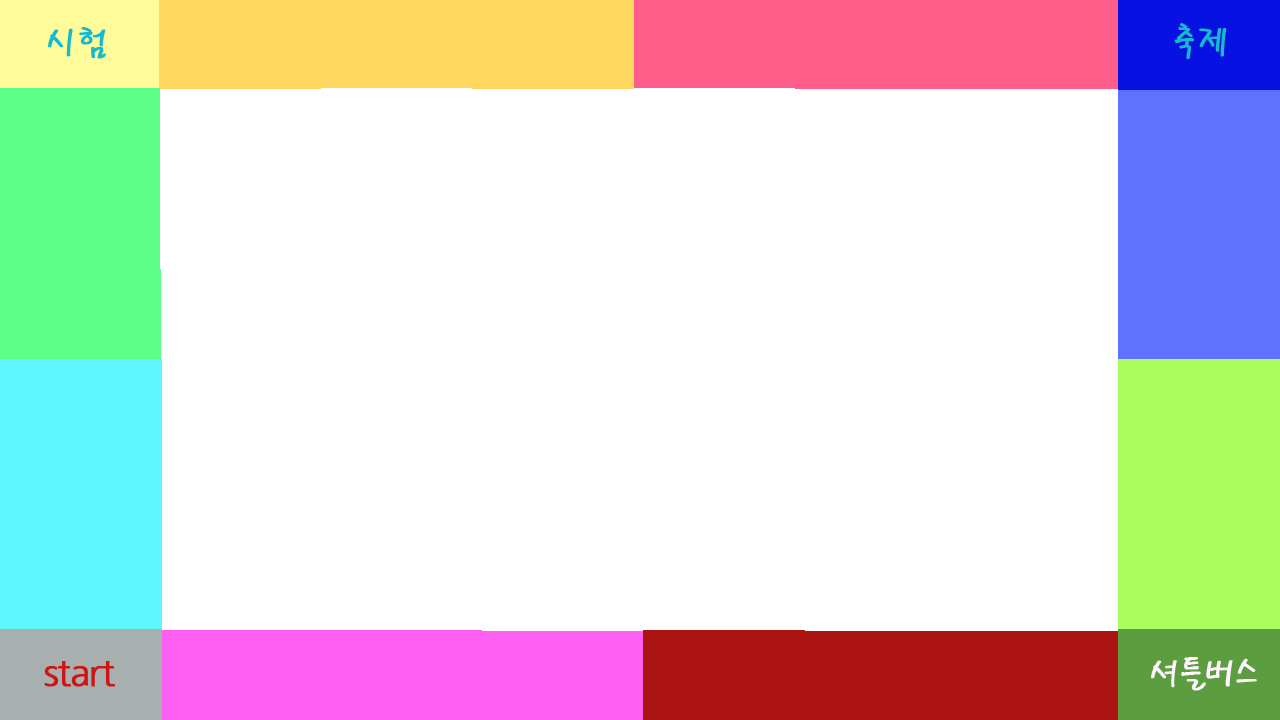
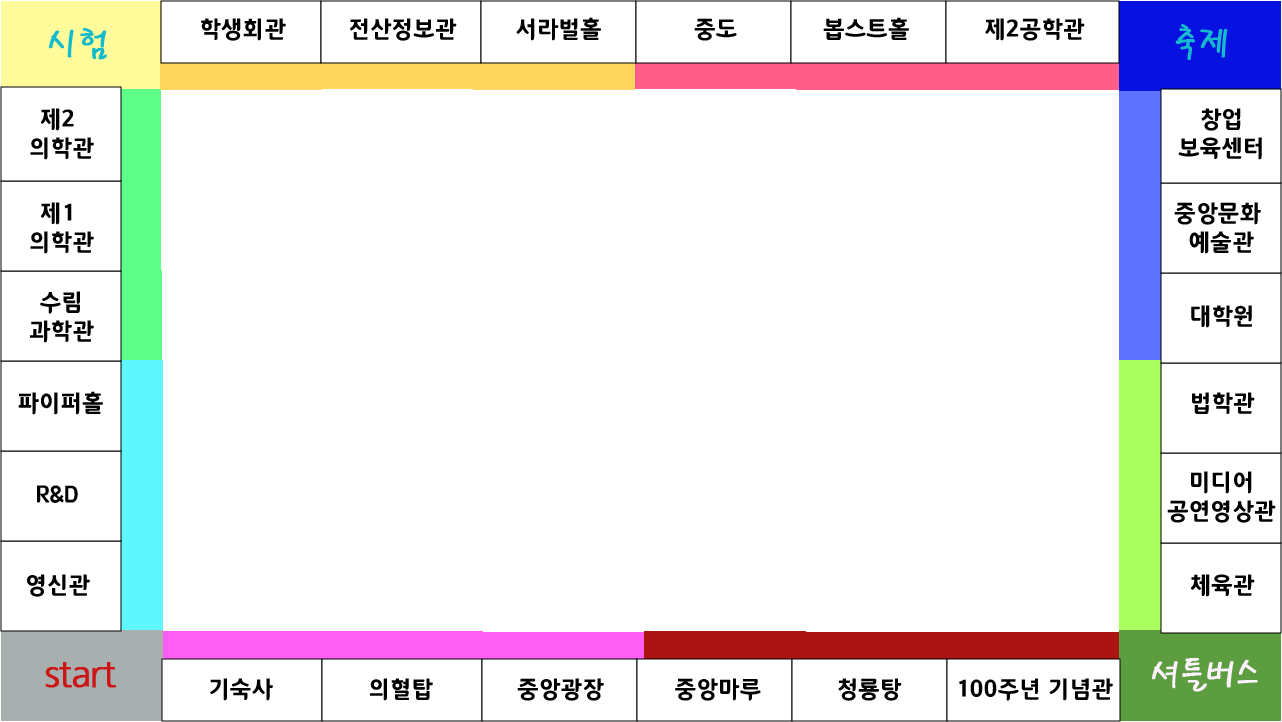
Modified all [Mod]

diff --git a/_20Marble.py b/_20Marble.py
@@ -17,15 +17,115 @@ explainbtn=Object("image/")
 explain=Object("image/")
 explain.hide()
 
+
+p1=Object("image/p1.png")
+p1.locate(mainscene,0,90)
+p2=Object("image/p2.png")
+p2.locate(mainscene,0,180)
+p3=Object("image/p3.png")
+p3.locate(mainscene,0,270)
+p4=Object("image/p4.png")
+p4.locate(mainscene,0,360)
+p5=Object("image/p5.png")
+p5.locate(mainscene,0,450)
+p6=Object("image/p6.png")
+p6.locate(mainscene,0,540)
+p7=Object("image/p7.png")
+p7.locate(mainscene,160,660)
+p8=Object("image/p8.png")
+p8.locate(mainscene,320,660)
+p9=Object("image/p9.png")
+p9.locate(mainscene,480,660)
+p10=Object("image/p10.png")
+p10.locate(mainscene,640,660)
+p11=Object("image/p11.png")
+p11.locate(mainscene,800,660)
+p12=Object("image/p12.png")
+p12.locate(mainscene,960,660)
+p13=Object("image/p13.png")
+p13.locate(mainscene,1160,540)
+p14=Object("image/p14.png")
+p14.locate(mainscene,1160,450)
+p15=Object("image/p15.png")
+p15.locate(mainscene,1160,360)
+p16=Object("image/p16.png")
+p16.locate(mainscene,1160,270)
+p17=Object("image/p17.png")
+p17.locate(mainscene,1160,180)
+p18=Object("image/p18.png")
+p18.locate(mainscene,1160,90)
+p19=Object("image/p19.png")
+p19.locate(mainscene,960,0)
+p20=Object("image/p20.png")
+p20.locate(mainscene,800,0)
+p21=Object("image/p21.png")
+p21.locate(mainscene,640,0)
+p22=Object("image/p22.png")
+p22.locate(mainscene,480,0)
+p23=Object("image/p23.png")
+p23.locate(mainscene,320,0)
+p24=Object("image/p24.png")
+p24.locate(mainscene,160,0)
+
+k1=Object("image/k1.png")
+k1.locate(mainscene,0,90)
+k2=Object("image/k2.png")
+k2.locate(mainscene,0,180)
+k3=Object("image/k3.png")
+k3.locate(mainscene,0,270)
+k4=Object("image/k4.png")
+k4.locate(mainscene,0,360)
+k5=Object("image/k5.png")
+k5.locate(mainscene,0,450)
+k6=Object("image/k6.png")
+k6.locate(mainscene,0,540)
+k7=Object("image/k7.png")
+k7.locate(mainscene,160,660)
+k8=Object("image/k8.png")
+k8.locate(mainscene,320,660)
+k9=Object("image/k9.png")
+k9.locate(mainscene,480,660)
+k10=Object("image/k10.png")
+k10.locate(mainscene,640,660)
+k11=Object("image/k11.png")
+k11.locate(mainscene,800,660)
+k12=Object("image/k12.png")
+k12.locate(mainscene,960,660)
+k13=Object("image/k13.png")
+k13.locate(mainscene,1160,540)
+k14=Object("image/k14.png")
+k14.locate(mainscene,1160,450)
+k15=Object("image/k15.png")
+k15.locate(mainscene,1160,360)
+k16=Object("image/k16.png")
+k16.locate(mainscene,1160,270)
+k17=Object("image/k17.png")
+k17.locate(mainscene,1160,180)
+k18=Object("image/k18.png")
+k18.locate(mainscene,1160,90)
+k19=Object("image/k19.png")
+k19.locate(mainscene,960,0)
+k20=Object("image/k20.png")
+k20.locate(mainscene,800,0)
+k21=Object("image/k21.png")
+k21.locate(mainscene,640,0)
+k22=Object("image/k22.png")
+k22.locate(mainscene,480,0)
+k23=Object("image/k23.png")
+k23.locate(mainscene,320,0)
+k24=Object("image/k24.png")
+k24.locate(mainscene,160,0)
+
 player1=Object("image/player1.png")
 player1.locate(mainscene,0,50)
-player1.setScale(0.5)
+player1.setScale(0.3)
 player1.show()
 
 player2=Object("image/player2.png")
-player2.locate(mainscene,100,50)
-player2.setScale(0.5)
+player2.locate(mainscene,70,50)
+player2.setScale(0.3)
 player2.show()
+
 
 def on_startbtn(x,y,action):
     mainscene.enter()
@@ -36,29 +136,84 @@ def on_explainbtn(x,y,action):
 explainbtn.onMouseAction=on_explainbtn
 
 #맵 구현
-#플레이어 1 위치 1로표기
-gamemap=[1,0,0,0,0,0,0,0,0,0,0,0,0,0,0,0,0,0,0,0,0,0,0,0,0,0,0,0,0,0,0,0]
+#플레이어 위치 1로표기
+gamemap=[1,0,0,0,0,0,0,0,0,0,0,0,0,0,0,0,0,0,0,0,0,0,0,0,0,0,0,0]
+gamemap2=[1,0,0,0,0,0,0,0,0,0,0,0,0,0,0,0,0,0,0,0,0,0,0,0,0,0,0,0]
+p1map=[0,p1,p2,p3,p4,p5,p6,0,p7,p8,p9,p10,p11,p12,0,p13,p14,p15,p16,p17,p18,0,p19,p20,p21,p22,p23,p24]
+p2map=[0,k1,k2,k3,k4,k5,k6,0,k7,k8,k9,k10,k11,k12,0,k13,k14,k15,k16,k17,k18,0,k19,k20,k21,k22,k23,k24]
+
+#트리플 독점 승리 플랜을 위한 색깔별 변수
+a=0
+b=0
+c=0
+d=0
+e=0
+f=0
+g=0
+a2=0
+b2=0
+c2=0
+d2=0
+e2=0
+f2=0
+g2=0
+
 
 #플레이어가 온적이 있는지 없는지 확인
-#1이 왔다갔으면 1
-visitmap=[1,0,0,0,0,0,0,0,0,0,0,0,0,0,0,0,0,0,0,0,0,0,0,0,0,0,0,0,0,0,0,0]
+#1이 왔다갔으면 1 2가 왔다 갔으면 2
+visitmap=[1,0,0,0,0,0,0,0,0,0,0,0,0,0,0,0,0,0,0,0,0,0,0,0,0,0,0,0]
 
 #주사위 구현
-dicebtn=Object("")
+dicebtn=Object("image/dicebtn.png")
+dicebtn.locate(mainscene,490,100)
+dicebtn.show()
 move=0
+timer=Timer(1)
+showTimer(timer)
 def on_dicebtn(x,y,action):
     move=random.randrange(1,7)
     showMessage(str(move)+"이 나왔다!")
-    gamemap[gamemap.index(1)]=0
-    if gamemap.index(1)+move>32:
-        gamemap[gamemap.index(1)+move-32]=1
-        visitmap[gamemap.index(1)+move-32]=1
+    temp=gamemap.index(1)
+    if gamemap.index(1)+move>27:
+        gamemap[gamemap.index(1)+move-28]=1
+        visitmap[gamemap.index(1)+move-28]=1
+        if p1map[gamemap.index(1)+move-28]!=0:
+            p1map[gamemap.index(1)+move-28].show()
+            p2map[gamemap.index(1)+move-28].hide()
+
     else:
         gamemap[gamemap.index(1)+move]=1
-        visitmap[gamemap.index(1)+move]=1   
+        visitmap[gamemap.index(1)+move]=1  
+        if p1map[gamemap.index(1)+move]!=0:
+            p1map[gamemap.index(1)+move].show()
+            p2map[gamemap.index(1)+move].hide()
+    gamemap[temp]=0
+    #상대방
+    timer.start()
 dicebtn.onMouseAction=on_dicebtn
 
+def timer_onTimeout():
+    move=random.randrange(1,7)
+    showMessage("상대는"+str(move)+"이 나왔다!")
+    temp=gamemap2.index(1)
+    if gamemap2.index(1)+move>27:
+        gamemap2[gamemap2.index(1)+move-28]=1
+        visitmap[gamemap2.index(1)+move-28]=2
+        if p2map[gamemap2.index(1)+move-28]!=0:
+            p2map[gamemap2.index(1)+move-28].show()
+            p1map[gamemap2.index(1)+move-28].hide()
+    else:
+        gamemap2[gamemap2.index(1)+move]=1
+        visitmap[gamemap2.index(1)+move]=2  
+        if p2map[gamemap2.index(1)+move]!=0:
+            p2map[gamemap2.index(1)+move].show()
+            p1map[gamemap2.index(1)+move].hide()
+    gamemap2[temp]=0
+    timer.set(1)
+timer.onTimeout=timer_onTimeout
+
 startGame(startscene)
+
 
 
 
